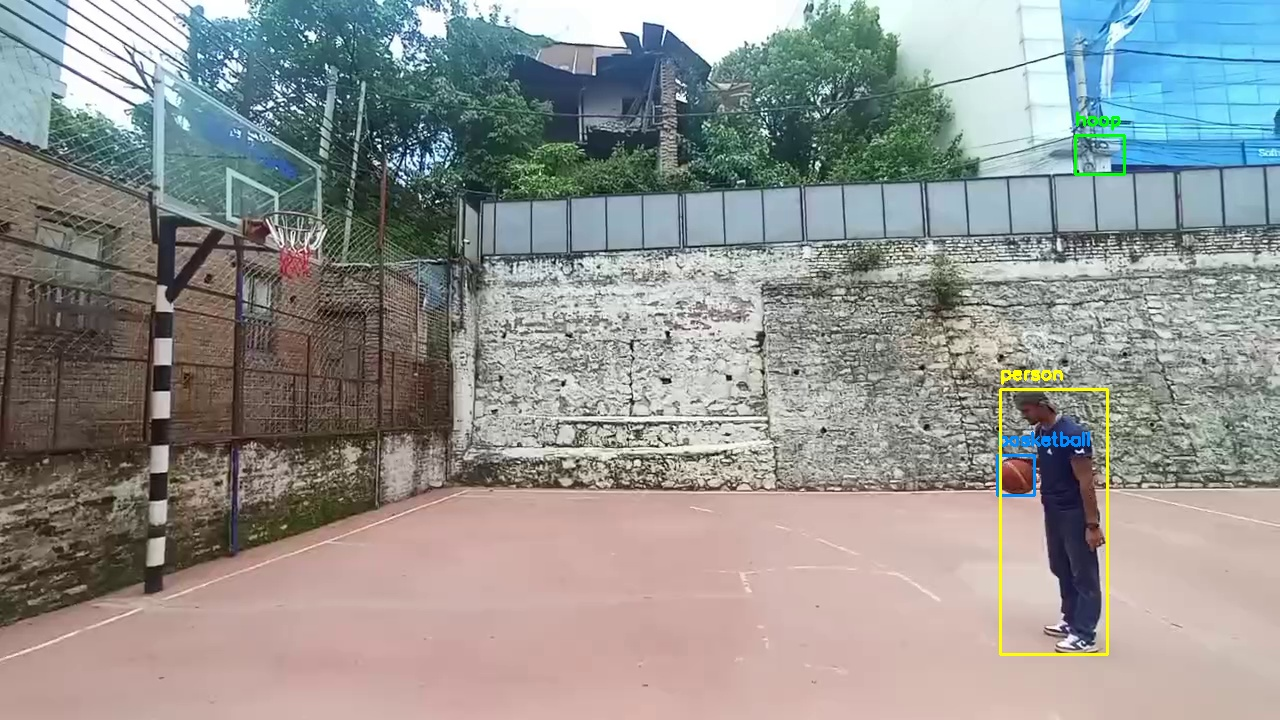
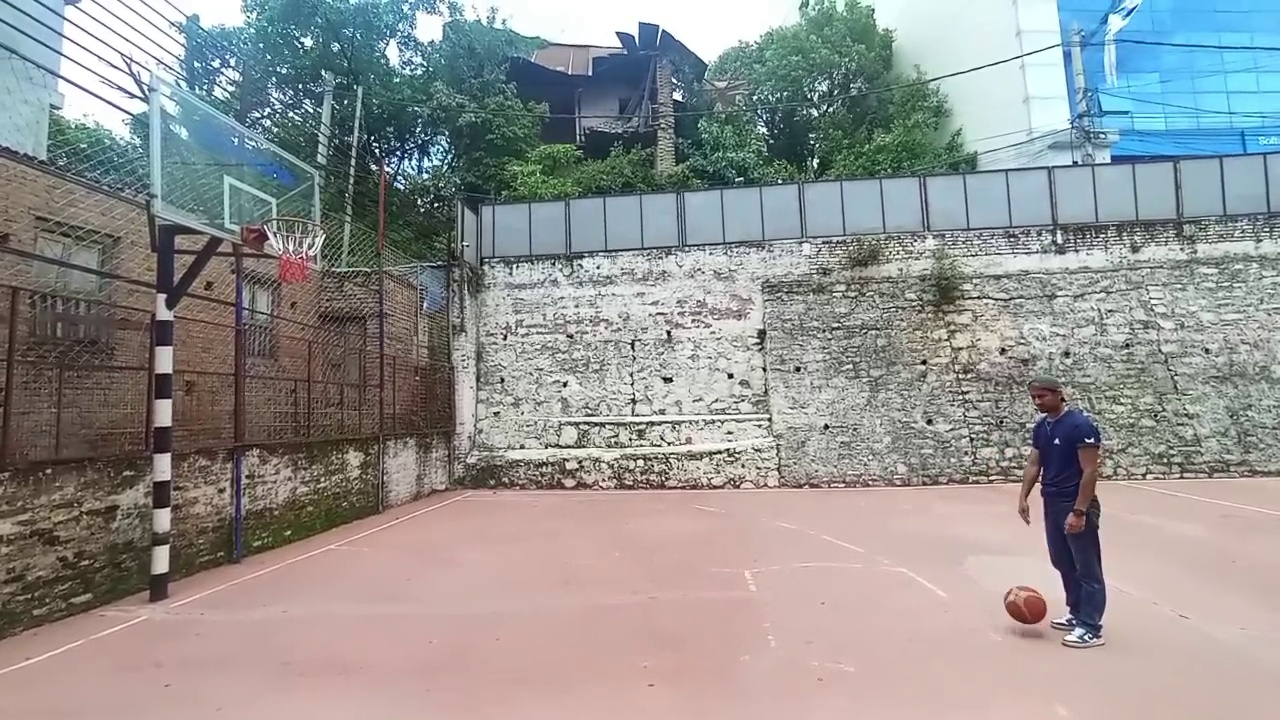
enhanced feedback

diff --git a/ai_coach/app/templates/dashboard.html b/ai_coach/app/templates/dashboard.html
@@ -415,40 +415,47 @@
         }
       };
 
-      // Update Frame Report function
       function updateFrameReport(feedbackArray, feedbackTargetId) {
-        const container = document.getElementById("frameContainer");
-        container.innerHTML = "";
+  const container = document.getElementById("frameContainer");
+  container.innerHTML = "";
 
-        const feedbackTarget = document.getElementById(feedbackTargetId);
+  const feedbackTarget = document.getElementById(feedbackTargetId);
 
-        if (!feedbackArray || feedbackArray.length === 0) {
-          container.innerHTML = "<p>No frames received.</p>";
-          feedbackTarget.innerText = "No feedback received.";
-          return;
-        }
+  if (!feedbackArray || feedbackArray.length === 0) {
+    container.innerHTML = "<p>No frames received.</p>";
+    feedbackTarget.innerText = "No feedback received.";
+    return;
+  }
 
-        feedbackTarget.innerText = "Feedback received.";
+  // 🔍 Filter out skipped feedback
+  const actionableFrames = feedbackArray.filter(
+    frame => !frame.summary.includes("Skipped")
+  );
 
-        feedbackArray.forEach((frame) => {
-          const div = document.createElement("div");
-          div.className = "frame";
+  if (actionableFrames.length === 0) {
+    container.innerHTML = "<p>No actionable frames found.</p>";
+    feedbackTarget.innerText = "No feedback received.";
+    return;
+  }
 
-          const img = document.createElement("img");
-          img.src = `/static/saved_frames/frame_${frame.frame_id}.jpg`;
-          img.alt = `Frame ${frame.frame_id}`;
-          div.appendChild(img);
+  feedbackTarget.innerText = "✅ Actionable feedback received:";
 
-          const feedback = document.createElement("div");
-          feedback.className = "feedback";
-          feedback.innerHTML = frame.summary.includes("Skipped")
-            ? `<span class="skipped">${frame.summary}</span>`
-            : `<span class="success">${frame.summary}</span>`;
-          div.appendChild(feedback);
+  actionableFrames.forEach((frame) => {
+    const div = document.createElement("div");
+    div.className = "frame";
 
-          container.appendChild(div);
-        });
-      }
+    const img = document.createElement("img");
+    img.src = `/static/saved_frames/frame_${frame.frame_id}.jpg`;
+    img.alt = `Frame ${frame.frame_id}`;
+    div.appendChild(img);
+
+    const feedback = document.createElement("div");
+    feedback.className = "feedback";
+    feedback.innerHTML = `<span class="success">${frame.summary}</span>`;
+    div.appendChild(feedback);
+
+    container.appendChild(div);
+  });}
 
       // Load saved feedback history
       async function loadHistory() {

diff --git a/ai_coach/app/cv_pipeline.py b/ai_coach/app/cv_pipeline.py
@@ -11,39 +11,34 @@ os.makedirs(SAVE_DIR, exist_ok=True)
 def analyze_frame(image, frame_id):
     basketball_pos = hoop_pos = person_pos = None
     posture_info = {}
-    detected_objects = []
 
     object_results = object_model.predict(image)[0]
     for det in object_results.boxes.data.tolist():
         x1, y1, x2, y2, conf, cls = det
-        label = object_results.names[int(cls)].strip().lower()
+        label = object_model.names[int(cls)].strip().lower()
         cx, cy = (x1 + x2) / 2, (y1 + y2) / 2
 
         if label == "basketball" and conf > 0.3:
             basketball_pos = [int(cx), int(cy)]
-            detected_objects.append(f"basketball @ ({int(cx)}, {int(cy)}), conf={conf:.2f}")
-            cv2.rectangle(image, (int(x1), int(y1)), (int(x2), int(y2)), (255, 140, 0), 2)
-            cv2.putText(image, "basketball", (int(x1), int(y1) - 10), cv2.FONT_HERSHEY_SIMPLEX, 0.6, (255, 140, 0), 2)
-
         elif label == "basketball hoop" and conf > 0.3:
             hoop_pos = [int(cx), int(cy)]
-            detected_objects.append(f"hoop @ ({int(cx)}, {int(cy)}), conf={conf:.2f}")
-            cv2.rectangle(image, (int(x1), int(y1)), (int(x2), int(y2)), (0, 255, 0), 2)
-            cv2.putText(image, "hoop", (int(x1), int(y1) - 10), cv2.FONT_HERSHEY_SIMPLEX, 0.6, (0, 255, 0), 2)
 
     person_results = person_model.predict(image)[0]
     for det in person_results.boxes.data.tolist():
         x1, y1, x2, y2, conf, cls = det
-        label = person_results.names[int(cls)].strip().lower()
+        label = person_model.names[int(cls)].strip().lower()
         if label == "person" and conf > 0.3:
             person_pos = [(x1 + x2) / 2, (y1 + y2) / 2]
-            detected_objects.append(f"person @ ({int(person_pos[0])}, {int(person_pos[1])}), conf={conf:.2f}")
-            cv2.rectangle(image, (int(x1), int(y1)), (int(x2), int(y2)), (0, 255, 255), 2)
-            cv2.putText(image, "person", (int(x1), int(y1) - 10), cv2.FONT_HERSHEY_SIMPLEX, 0.6, (0, 255, 255), 2)
             break
 
-    person_detected = person_pos is not None
-    if person_detected:
+    # Count how many are present
+    num_present = sum(e is not None for e in [basketball_pos, hoop_pos, person_pos])
+
+    # Skip frame if fewer than 2 elements
+    if num_present < 2:
+        return None
+
+    if person_pos:
         posture_info = {
             "elbow_angle": "estimated ~110°",
             "leg_position": "slightly bent",
@@ -53,16 +48,12 @@ def analyze_frame(image, frame_id):
     frame_filename = f"frame_{frame_id}.jpg"
     frame_path = os.path.join(SAVE_DIR, frame_filename)
     cv2.imwrite(frame_path, image)
-    print(f"✅ Saved frame to: {frame_path}")
-
-    web_path = f"/static/saved_frames/{frame_filename}"
 
     return {
         "frame_id": frame_id,
         "ball_position": basketball_pos,
         "hoop_position": hoop_pos,
-        "person_detected": person_detected,
+        "person_detected": person_pos is not None,
         "player_posture": posture_info,
-        "detected_objects": detected_objects,
-        "frame_image": web_path
+        "frame_image": f"/static/saved_frames/{frame_filename}"
     }

diff --git a/ai_coach/app/ollama_chain.py b/ai_coach/app/ollama_chain.py
@@ -5,20 +5,11 @@ import re
 model = OllamaLLM(model="llama3.2:1b")
 
 template = """
-You are a professional basketball shot consultant. Your job is to analyze player performance based on visual frame data.
+You are a basketball coach AI.
 
-Each frame may contain:
-- Ball position (from object detection)
-- Hoop position (from object detection)
-- Player posture (from pose detection or heuristics)
+If any data (ball, hoop, posture) is missing, skip response. Otherwise, give concise coaching advice in 2-3 sentences.
 
-Your task:
-1. If any of the three elements (ball, hoop, posture) are missing, respond with: "Skipped — incomplete frame data."
-2. If all elements are present, analyze the player's shooting posture and spatial relationship to the hoop.
-3. Provide clear, actionable feedback to improve shooting technique.
-4. Format your response like this:
-
-Feedback: <your coaching advice>
+Feedback: <short coaching feedback>
 
 Frame Data:
 {frame}
@@ -34,9 +25,8 @@ def get_recommendation(frame_data: dict, question: str):
     try:
         return chain.invoke({"frame": frame_data, "question": question})
     except Exception:
-        return "AI feedback failed for this frame."
+        return 
 
 def parse_feedback(text):
-    feedback_match = re.search(r"Feedback:\s*(.+)", text)
-    summary = feedback_match.group(1).strip() if feedback_match else text
-    return summary
+    match = re.search(r"Feedback:\s*(.*?)(?:\n|$)", text, re.DOTALL)
+    return match.group(1).strip() if match else text.strip()

diff --git a/ai_coach/app/video_utils.py b/ai_coach/app/video_utils.py
@@ -1,18 +1,40 @@
-import cv2
 from app.cv_pipeline import analyze_frame
+import os
+import cv2
 
-def extract_key_frames(video_path, max_frames=5):
+SAVE_DIR = "app/static/saved_frames"
+
+def clear_saved_frames():
+    if os.path.exists(SAVE_DIR):
+        for f in os.listdir(SAVE_DIR):
+            os.remove(os.path.join(SAVE_DIR, f))
+
+def extract_9_key_frames(video_path):
     cap = cv2.VideoCapture(video_path)
-    frames = []
-    count = 0
+    total_frames = int(cap.get(cv2.CAP_PROP_FRAME_COUNT))
+    segment_size = total_frames // 3
+    valid_frames = []
+    frame_id = 0
 
-    while cap.isOpened() and count < max_frames:
-        ret, frame = cap.read()
-        if not ret:
-            break
-        frame_data = analyze_frame(frame, count)
-        frames.append(frame_data)
-        count += 1
+    clear_saved_frames()
+
+    for seg in range(3):  # start, middle, end
+        base = seg * segment_size
+        step = segment_size // 5
+        attempts = 0
+        collected = 0
+
+        while collected < 3 and attempts < 10:
+            cap.set(cv2.CAP_PROP_POS_FRAMES, base + step * attempts)
+            ret, frame = cap.read()
+            if not ret:
+                break
+            frame_data = analyze_frame(frame, frame_id)
+            attempts += 1
+            if frame_data:  # only collect if valid
+                valid_frames.append(frame_data)
+                frame_id += 1
+                collected += 1
 
     cap.release()
-    return frames
+    return valid_frames

diff --git a/ai_coach/app/orchestrator.py b/ai_coach/app/orchestrator.py
@@ -1,0 +1,27 @@
+import sys
+from app.video_utils import extract_key_frames
+from app.feedback_chain import get_feedback
+from app.report_generator import generate_html_report
+
+def run_pipeline(video_path, question):
+    # 1. Extract & analyze only start, middle, end frames
+    frames = extract_key_frames(video_path)
+
+    # 2. Generate LLM feedback per frame
+    feedback_data = []
+    for analysis in frames:
+        result = get_feedback(analysis, question)
+        feedback_data.append(result)
+
+    # 3. Build HTML report
+    generate_html_report(feedback_data)
+    print("[orchestrator] Pipeline complete.")
+
+if __name__ == "__main__":
+    if len(sys.argv) < 2:
+        print("Usage: python orchestrator.py <video_path>")
+        sys.exit(1)
+
+    video_file    = sys.argv[1]
+    shot_question = "What should the player improve in this phase?"
+    run_pipeline(video_file, shot_question)

diff --git a/ai_coach/app/routes/frame_routes.py b/ai_coach/app/routes/frame_routes.py
@@ -1,7 +1,7 @@
 from flask import Blueprint, request, jsonify, session, Response, render_template, redirect
 from werkzeug.utils import secure_filename
 from app.models import db, FrameFeedback
-from app.video_utils import extract_key_frames
+from app.video_utils import extract_9_key_frames as extract_key_frames
 from app.ollama_chain import get_recommendation
 import os
 import traceback
